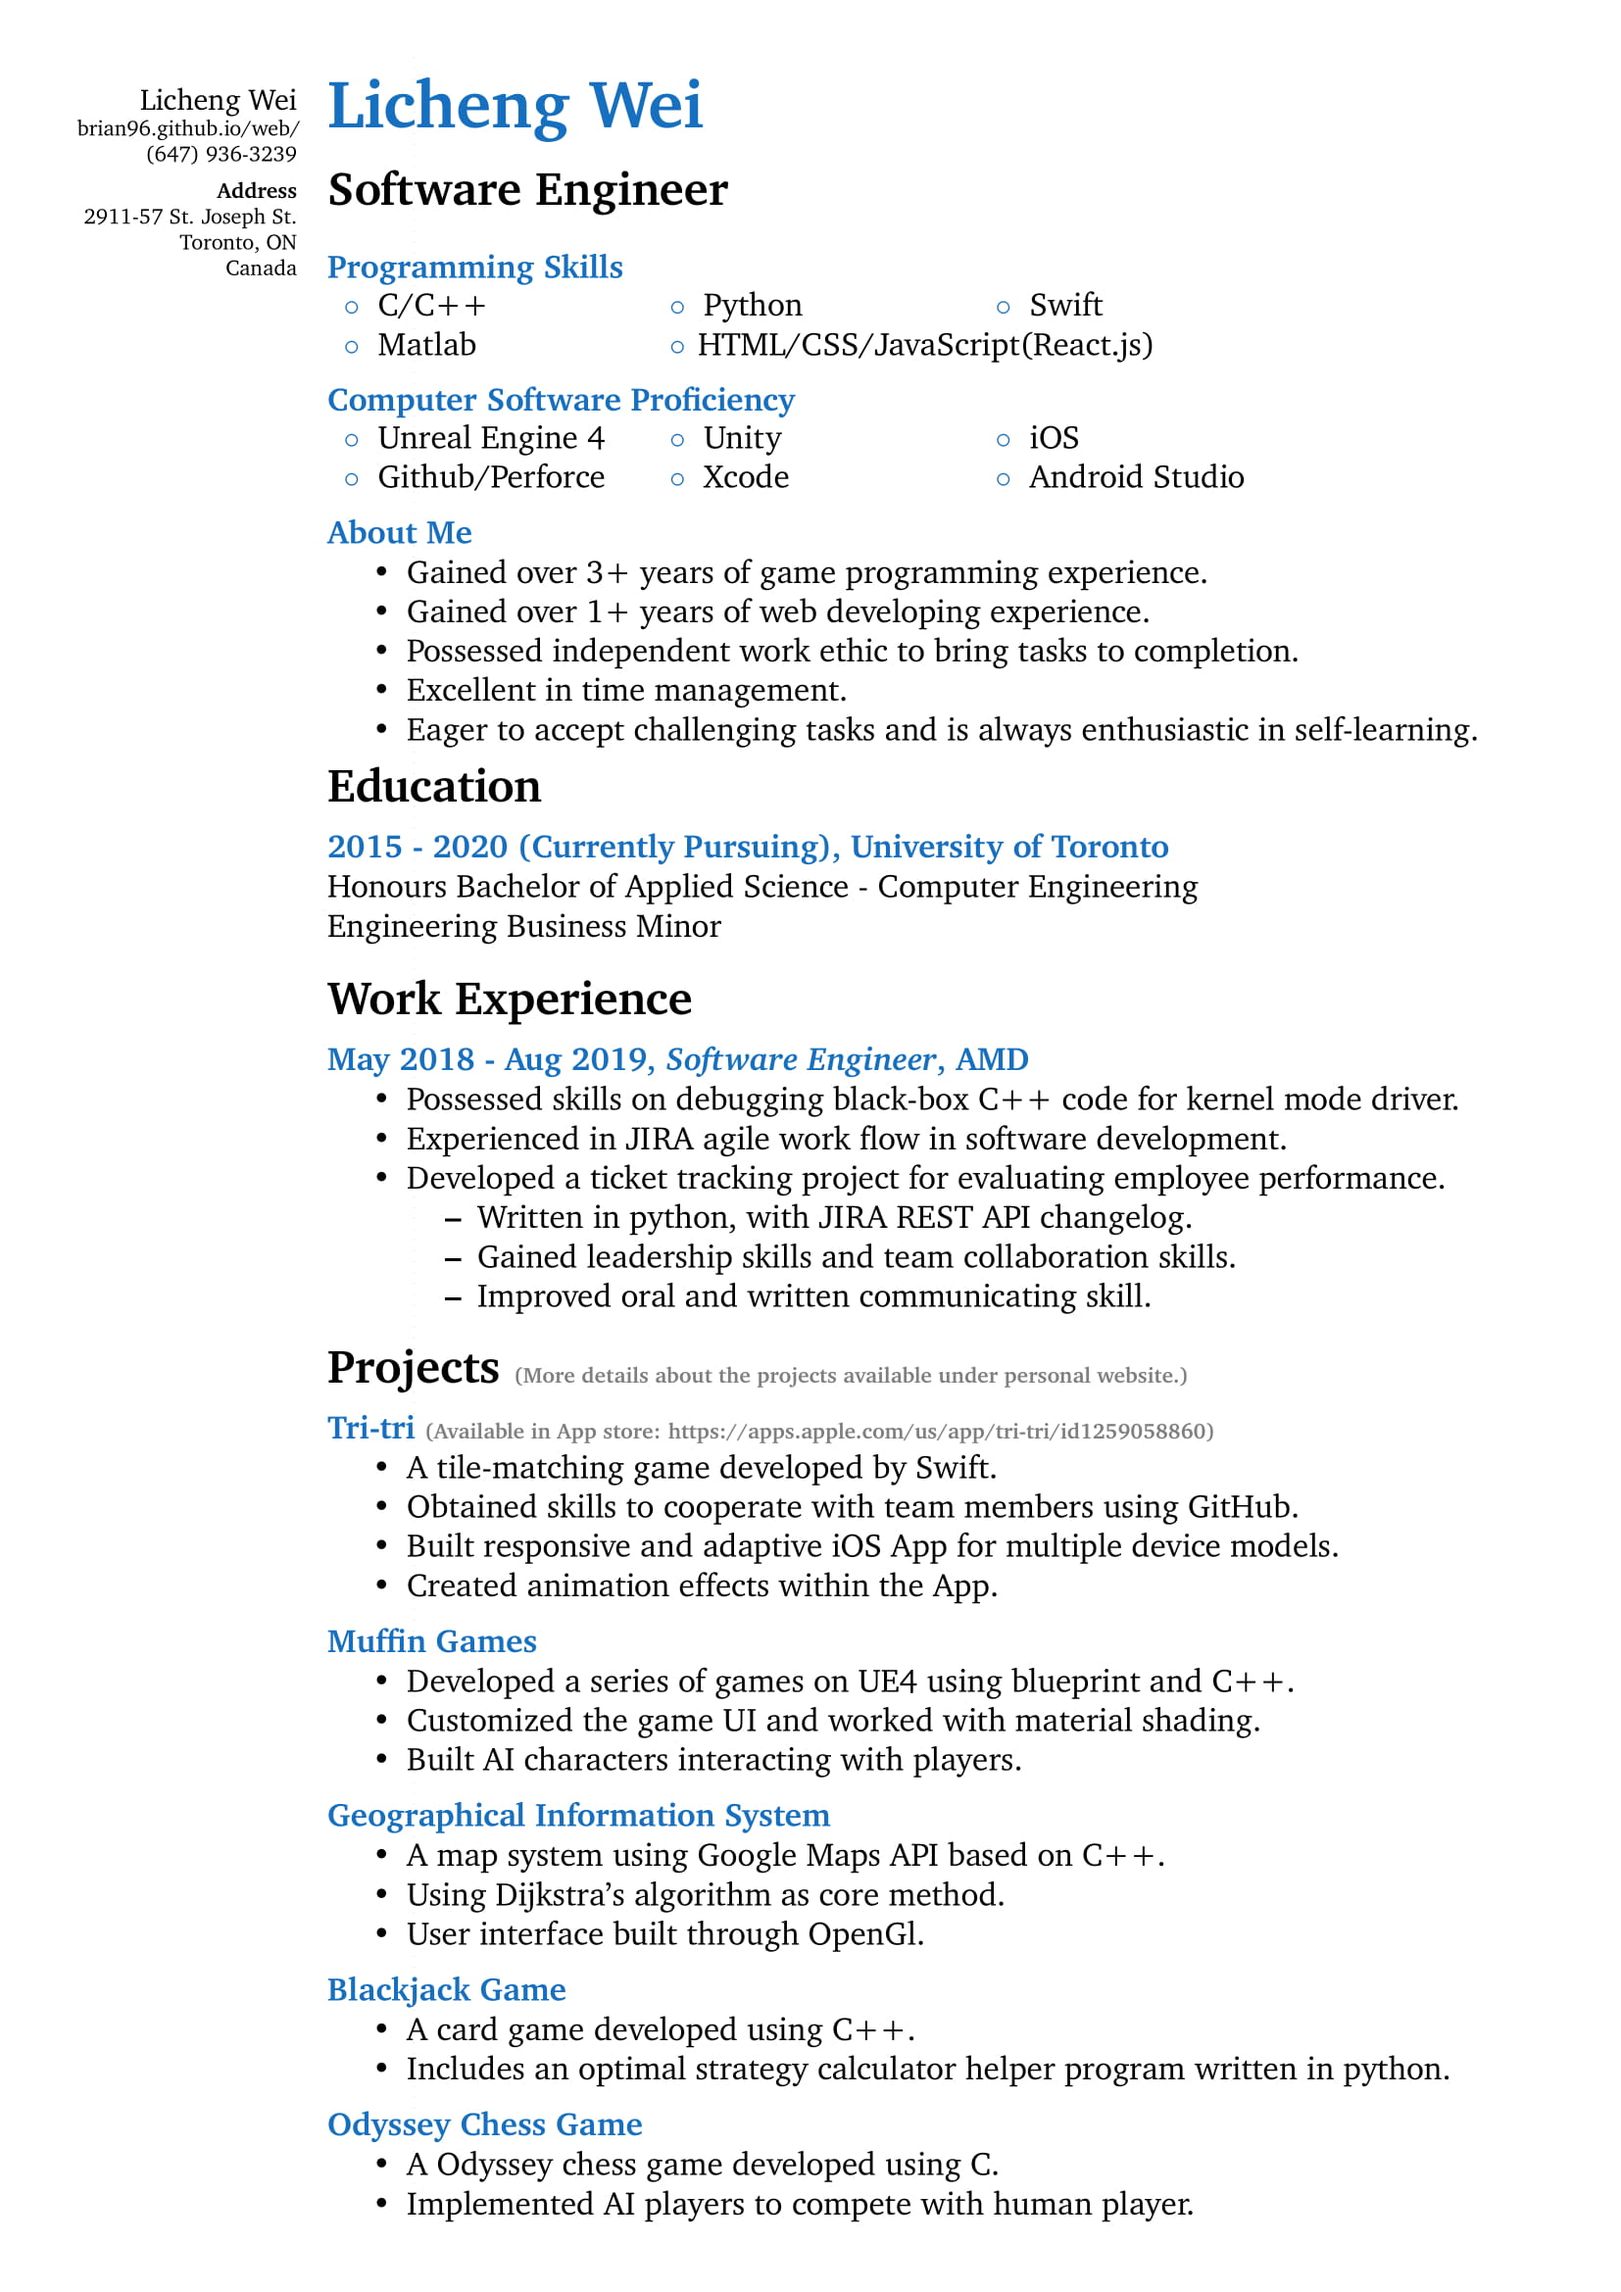
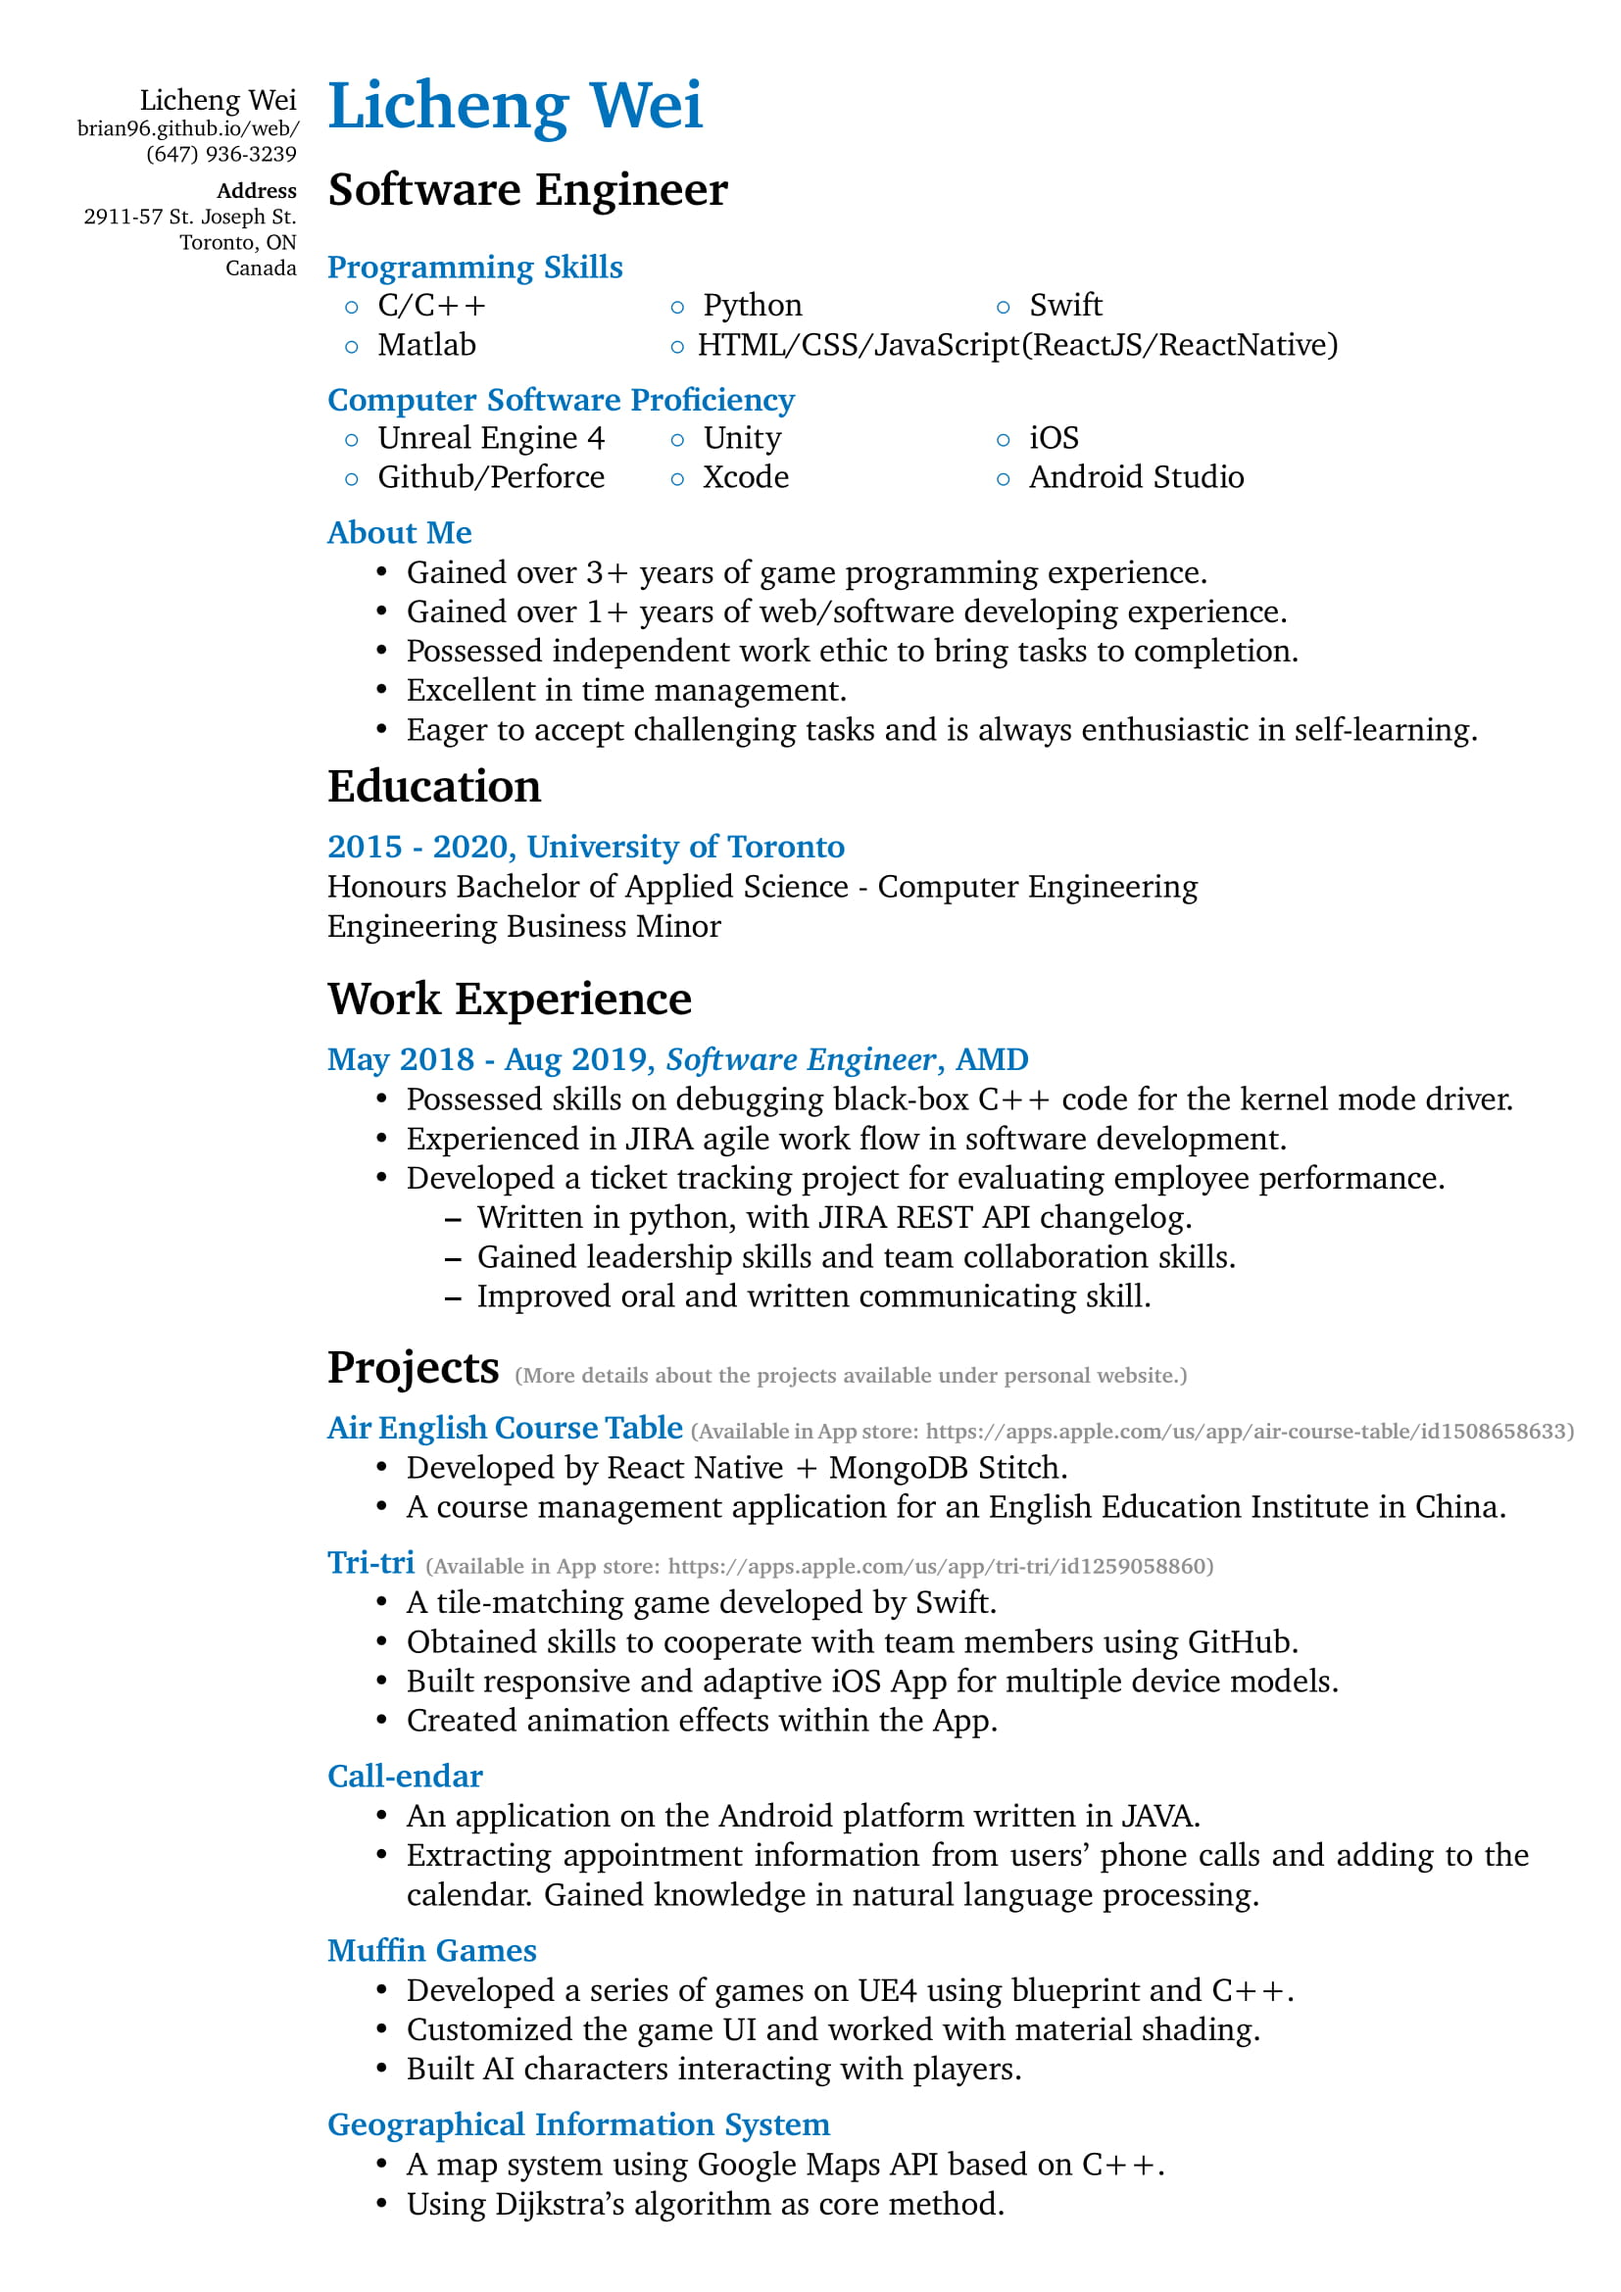
course table

diff --git a/index.html b/index.html
@@ -52,6 +52,32 @@
 
   </section>
 
+
+  <div class="sec p4">
+    <div class="proj-div tritri">
+      <h2>Air English Course Table</h2>
+      <br>
+        <ul>
+          <li>A course management application for an English training institute in China.</li>
+          <li>Developed using react native + MongoDB Stitch.</li>
+          <li>Providing students with the up-to-date course table; Allowing students to manage their own courses; Reflecting statistics to teachers for easier managing.</li>
+        </ul>
+      <a class="link" target="_blank" href="https://itunes.apple.com/us/app/tri-tri/id1259058860?mt=8">Available in
+        Appstore</a>
+      <div id="photos">
+        <ul id="photo-gallery">
+          <li>
+            <a target="_blank" href="img/CourseTable/all.jpg" style="width:100%;">
+              <img src="img/CourseTable/all.jpg" style="width:50%;">
+            </a>
+          </li>
+
+
+        </ul>
+      </div>
+    </div>
+  </div>
+
   <div class="sec p1">
     <div class="proj-div tritri">
       <h2>Tri-tri Game App</h2>

diff --git a/css/style.css b/css/style.css
@@ -138,6 +138,9 @@ ul {
   .p3{
     background: #212e70;
   }
+  .p4{
+    background: #ff5c33;
+  }
 
   h2{
     margin:0;
